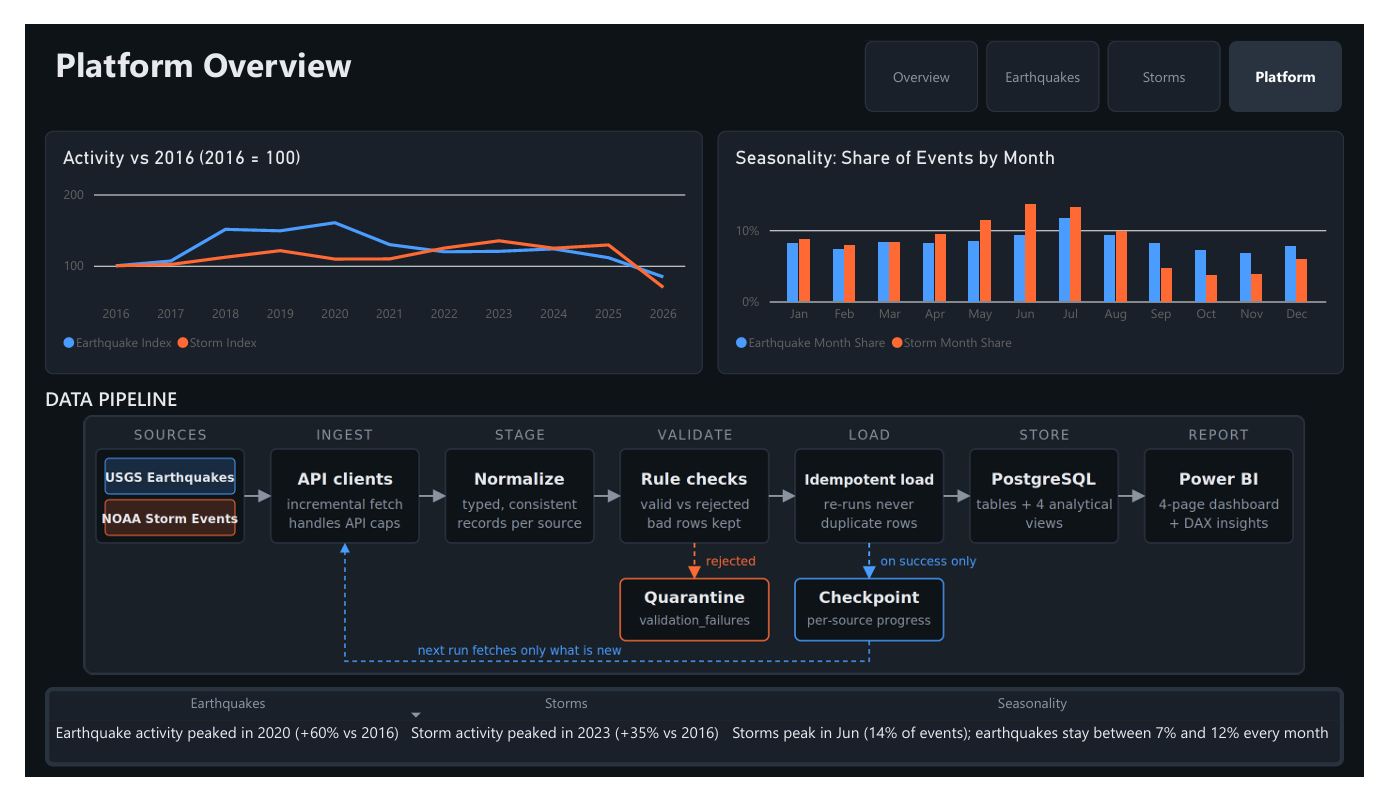
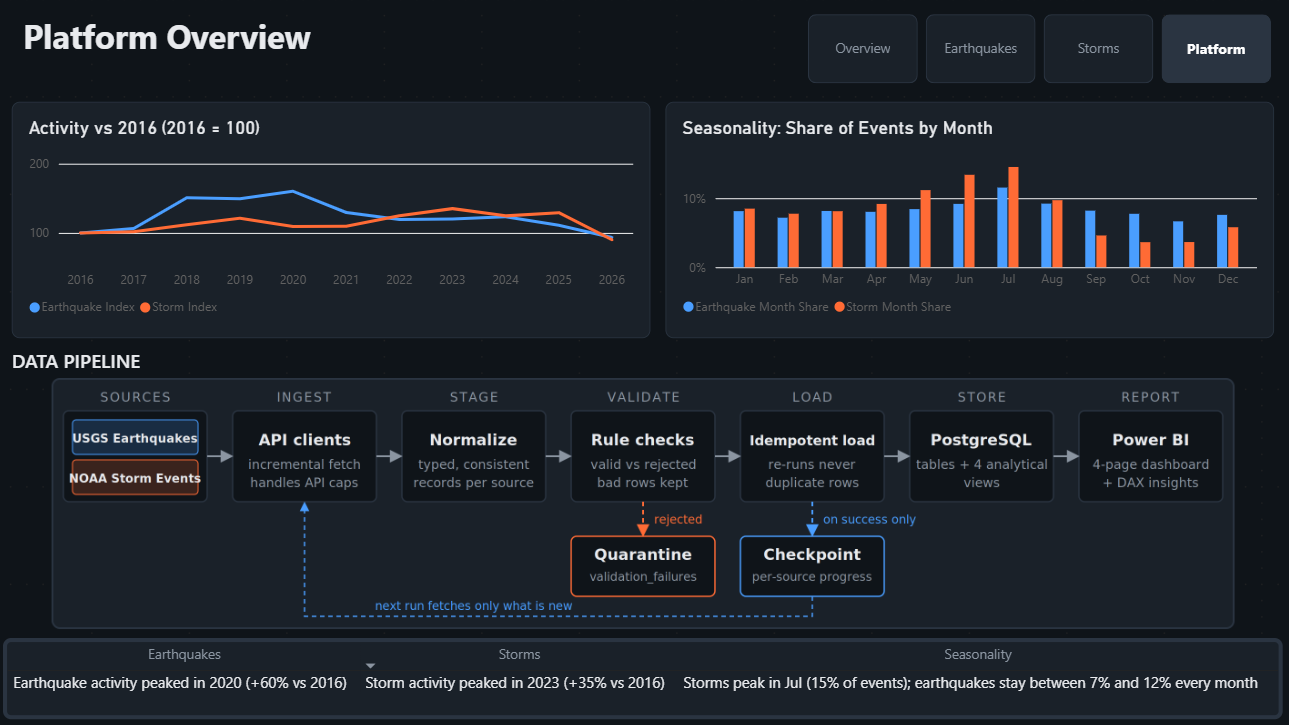
Refresh dashboard and docs with Oct 2026 data and time-zone fixes

diff --git a/README.md b/README.md
@@ -2,9 +2,9 @@
 
 An end-to-end data project: Python pipelines ingest public **USGS earthquake** and **NOAA storm** data into **PostgreSQL**, and a 4-page **Power BI** dashboard turns ten years of it (2016 to 2026) into insights.
 
-- **1.7M** earthquakes (USGS) and **693K** storm events (NOAA) loaded
+- **1.7M** earthquakes (USGS) and **704K** storm events (NOAA) loaded
 - Incremental, idempotent pipelines with a quarantine for bad records
-- **155+ automated tests**
+- **160 automated tests**, including regression tests for time-zone handling
 - A dark-theme Power BI report with dynamic, DAX-driven insights
 
 ## Dashboard
@@ -19,9 +19,10 @@ An end-to-end data project: Python pipelines ingest public **USGS earthquake** a
 
 ### What the data showed
 
-- **Heat, not tornadoes, is the deadliest storm type.** Excessive Heat caused 2,199 deaths in the loaded period.
-- **Earthquakes have no season; storms do.** Earthquakes stay between 7% and 12% of events every month, while storms peak in June at about 14%.
+- **Heat, not tornadoes, is the deadliest storm type.** Excessive Heat caused 2,247 deaths in the loaded period.
+- **Earthquakes have no season; storms do.** Earthquakes stay between 7% and 12% of events every month, while storms peak in July at about 15%. Complete years only (2016 to 2025) give the same peak month.
 - **Alaska holds about 31% of all recorded earthquakes.** The strongest event in the period was M8.8 near Kamchatka, Russia (2025).
+
 **More:** [Full dashboard (PDF)](docs/dashboard.pdf) | [Project carousel (PDF)](docs/carousel.pdf) | [DAX reference](docs/dax-measures.md) | [Architecture notes](docs/architecture.md)
 
 ## Architecture
@@ -52,6 +53,7 @@ NOAA files┘                         │          │
 - **Idempotent loads.** Re-running a window updates or skips existing rows. This was verified when a backfill re-encountered already-loaded events.
 - **API limits handled.** USGS caps a single request at 20,000 events, so large historical loads split date windows (the backfill scripts count events first and split dense periods).
 - **Analytical views.** Four PostgreSQL views feed the dashboard.
+- **Time zones handled explicitly.** NOAA records storm times in each county's local time, so the views convert them to UTC using the `cz_timezone` offset. Days are cut at UTC midnight in both SQL and Power BI, so results do not depend on the database session's or the analyst's time zone. Regression tests run the views in an India-time session to prove it.
 
 ## Project structure
 
@@ -66,7 +68,7 @@ src/
   orchestration/   per-source pipelines and the integration runner
 config/            source configuration
 sql/               table and analytical view definitions
-tests/             155+ automated tests
+tests/             160 automated tests
 run_pipelines.py   run both pipelines incrementally
 update_data.bat    double-click wrapper for Windows
 backfill_*.py      one-off historical loaders
@@ -83,7 +85,7 @@ python -m venv .venv
 pip install -r requirements.txt
 ```
 
-Create the database and tables:
+Create the database and tables (repeat with `disaster_data_test` for the test suite):
 
 ```bash
 createdb -U postgres disaster_data
@@ -105,7 +107,7 @@ set POSTGRES_PASSWORD=your_password      # Windows
 
 ```bash
 python run_pipelines.py     # incremental run of both sources
-pytest                      # run the test suite
+python -m pytest            # run the test suite (needs disaster_data_test)
 ```
 
 On Windows you can also double-click `update_data.bat`, then click **Refresh** in Power BI.
@@ -117,7 +119,7 @@ The first load of a long date range should use the backfill scripts, which split
 - **No scheduler.** Updates are one click (`update_data.bat`) and the Power BI refresh is manual, which suits a portfolio project.
 - **The two sources are analyzed independently.** There is no defensible geographic or temporal join key between USGS and NOAA records, so the dashboard compares patterns, not individual events.
 - **NOAA checkpoint is source-scoped, not per year.** Multi-year backfills therefore reset the NOAA checkpoint before each year.
-- **Partial latest year.** The latest year is year-to-date and grows as the pipeline runs.
+- **Partial latest year.** The latest year is year-to-date and grows as the pipeline runs. NOAA publishes storm data a few months behind, so storm data ends earlier than earthquake data.
 
 ## Tech stack
 

diff --git a/docs/architecture.md b/docs/architecture.md
@@ -83,7 +83,7 @@ The checkpoint is one row per source in `ingestion_checkpoints`, holding the las
 
 ## 12. Testing Strategy
 
-The suite has 155+ automated tests with pytest, covering each layer separately (clients, ingestion, staging, validation, loading, quarantine, checkpointing) plus the orchestration and the analytical views. Integration tests run against a real PostgreSQL instance, with the password supplied through the `POSTGRES_PASSWORD` environment variable.
+The suite has 160 automated tests with pytest, covering each layer separately (clients, ingestion, staging, validation, loading, quarantine, checkpointing) plus the orchestration and the analytical views. Integration tests run against a real PostgreSQL instance, with the password supplied through the `POSTGRES_PASSWORD` environment variable.
 
 ## 13. Engineering Decisions
 
@@ -92,5 +92,5 @@ The suite has 155+ automated tests with pytest, covering each layer separately (
 - **Source isolation at one point.** The runner is the only place that swallows exceptions, so failures stay visible everywhere else.
 - **Windowed backfills.** When scaling from a two-day sample to ten years, USGS's 20,000-event request cap broke a dense window (the 2019 Ridgecrest earthquake sequence). The backfill script now counts events first and splits any window over the limit.
 - **Checkpoint reset for NOAA backfills.** Because the checkpoint is not per year, older years would be skipped. The backfill clears the NOAA checkpoint before each year, which is safe because loads are idempotent.
-- **Timezone discipline.** USGS timestamps are normalized to UTC. Yearly counts checked in IST differed slightly from UTC until grouped in UTC.
+- **Timezone discipline.** USGS timestamps are normalized to UTC. NOAA times are local to each county, so `vw_storm_events_enriched` subtracts the `cz_timezone` offset (e.g. `CST-6`, `GST10`) to get UTC. Views cut days with `date_trunc('day', ..., 'UTC')`, so results do not depend on the session time zone, and the Power BI model converts to UTC before taking the date. Earlier versions cut days in the analyst's local time (IST), which moved events after 18:30 UTC to the next day; regression tests now cover this.
 - **No scheduler.** Updates run on demand with one command (`update_data.bat`), then a manual Power BI refresh. A scheduled run would be a natural next step.
